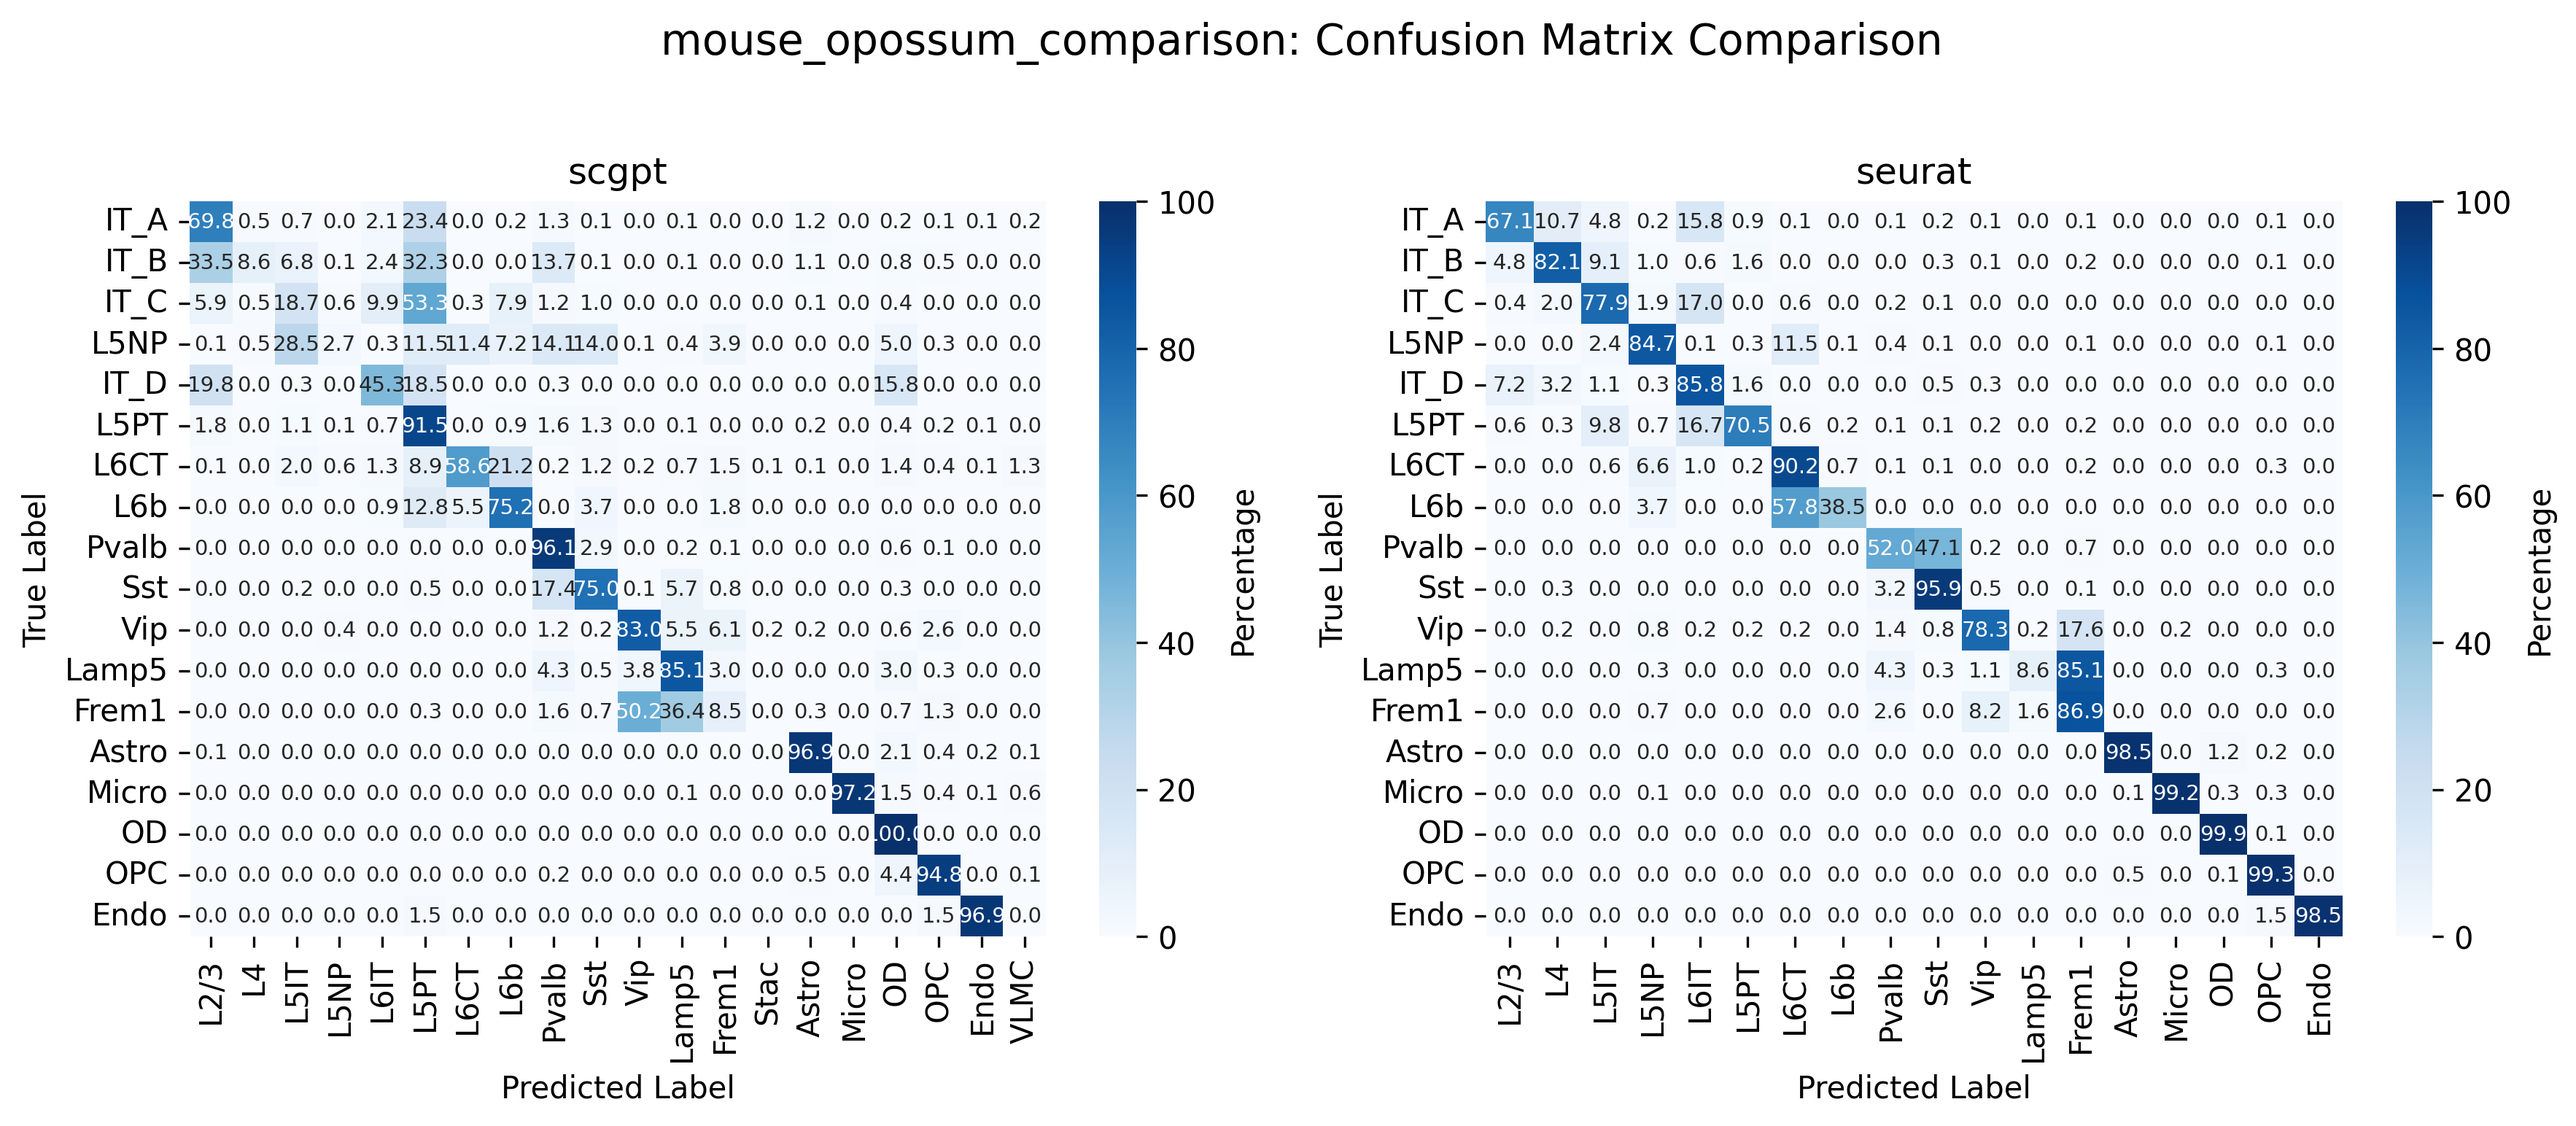
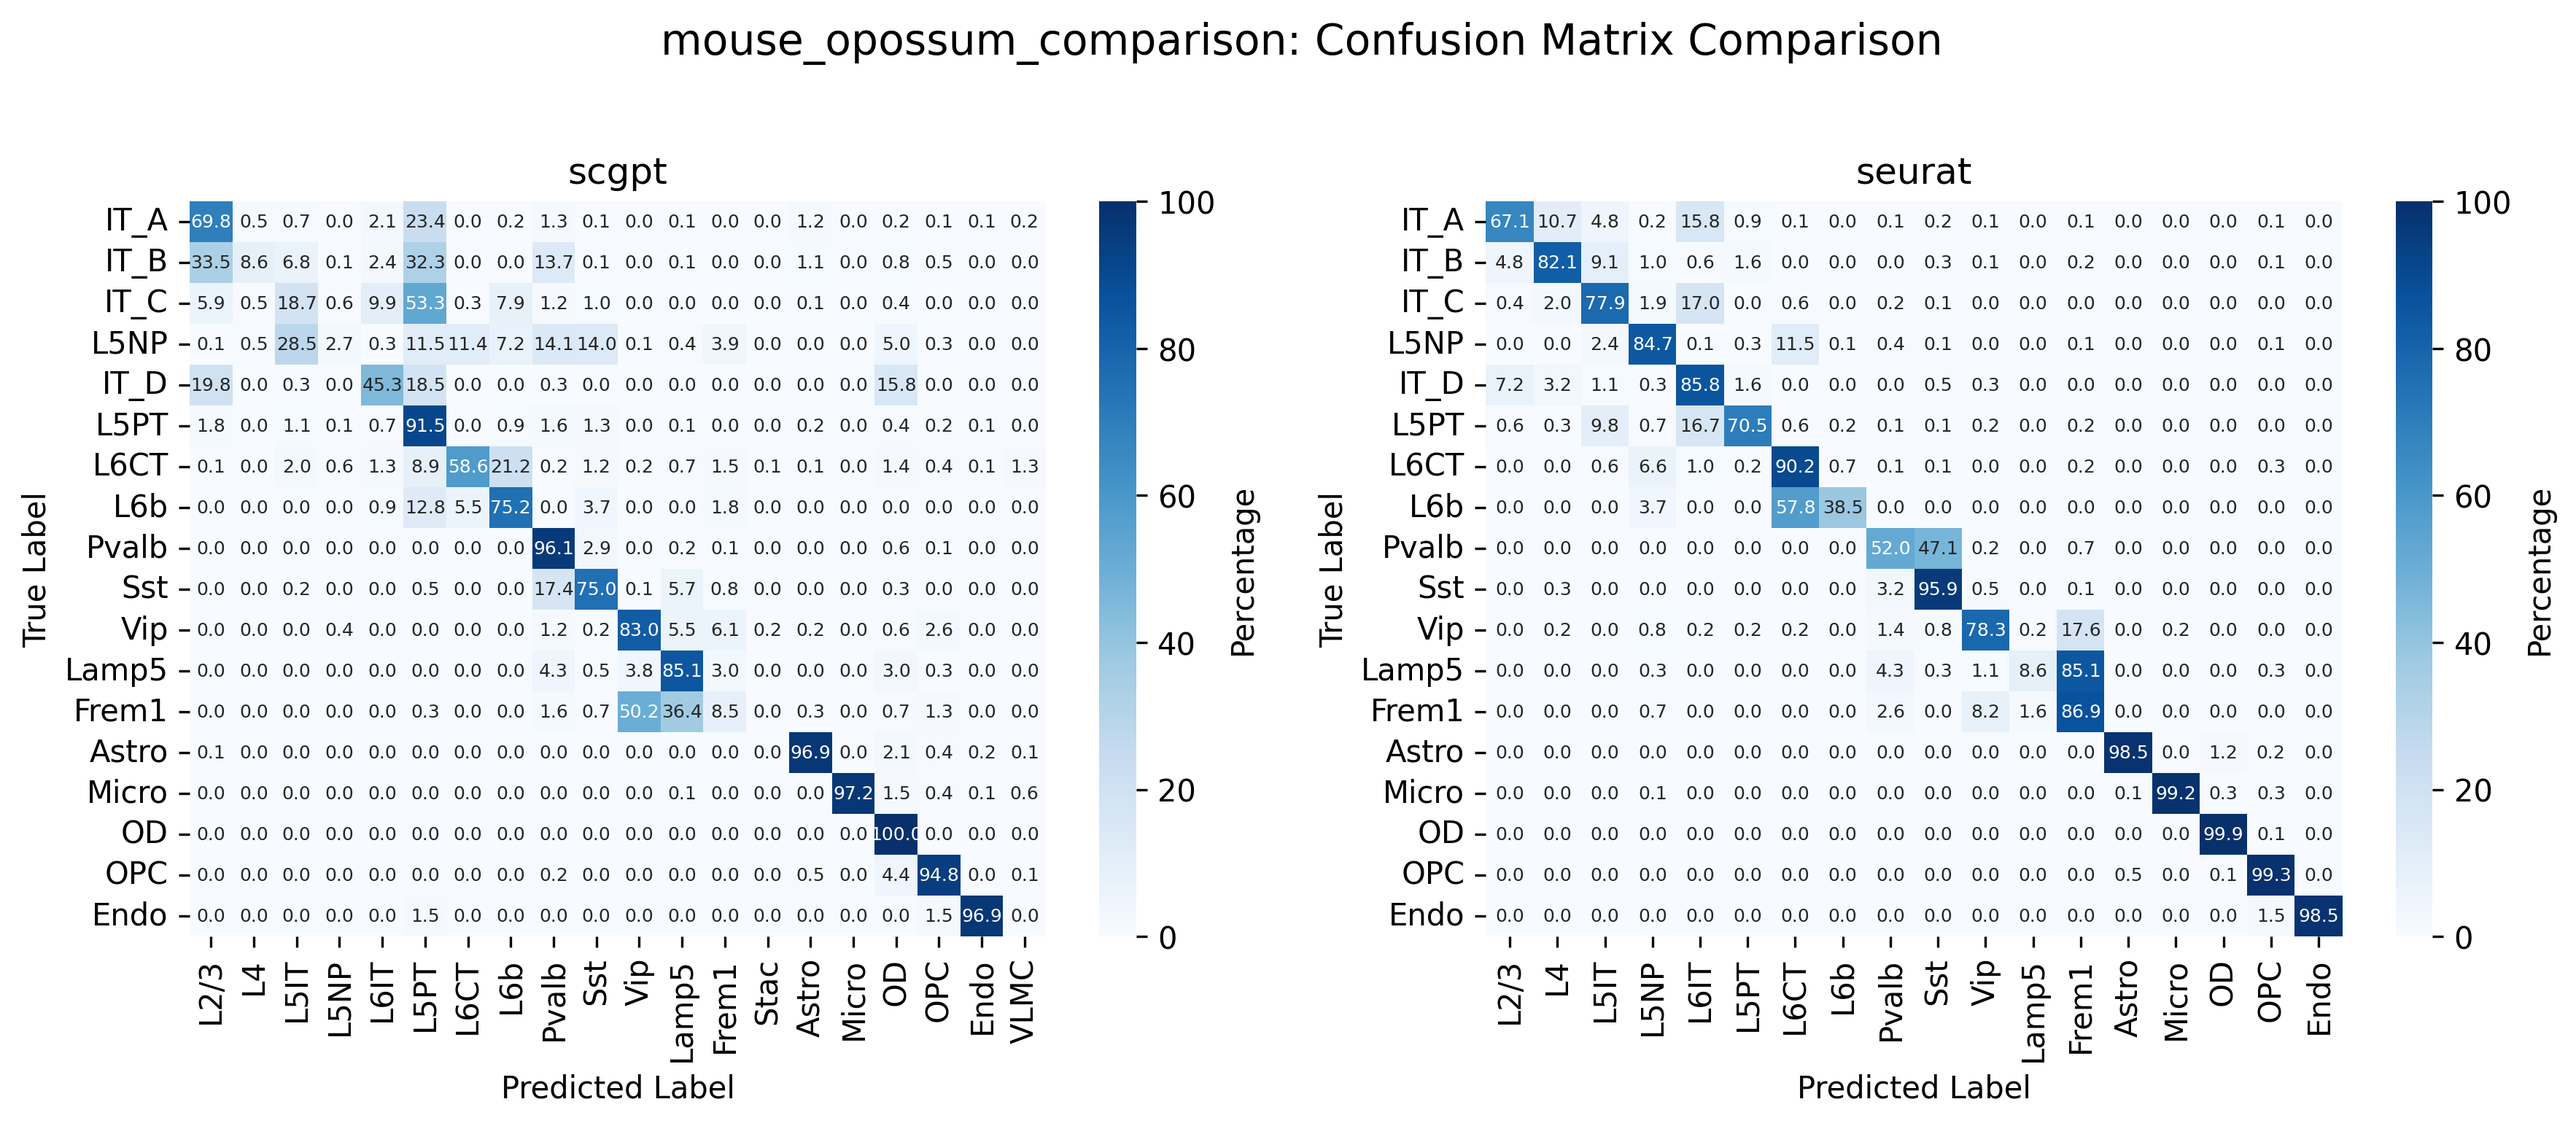
Fix confusion matrix formatting

diff --git a/src/analysis/comparison.py b/src/analysis/comparison.py
@@ -271,7 +271,7 @@ def plot_side_by_side_confusion_matrices(
             vmin=0,
             vmax=100,
             cbar_kws={"label": "Percentage"},
-            annot_kws={"fontsize": 7}
+            annot_kws={"fontsize": 6}
         )
         
         # Get accuracy if available
